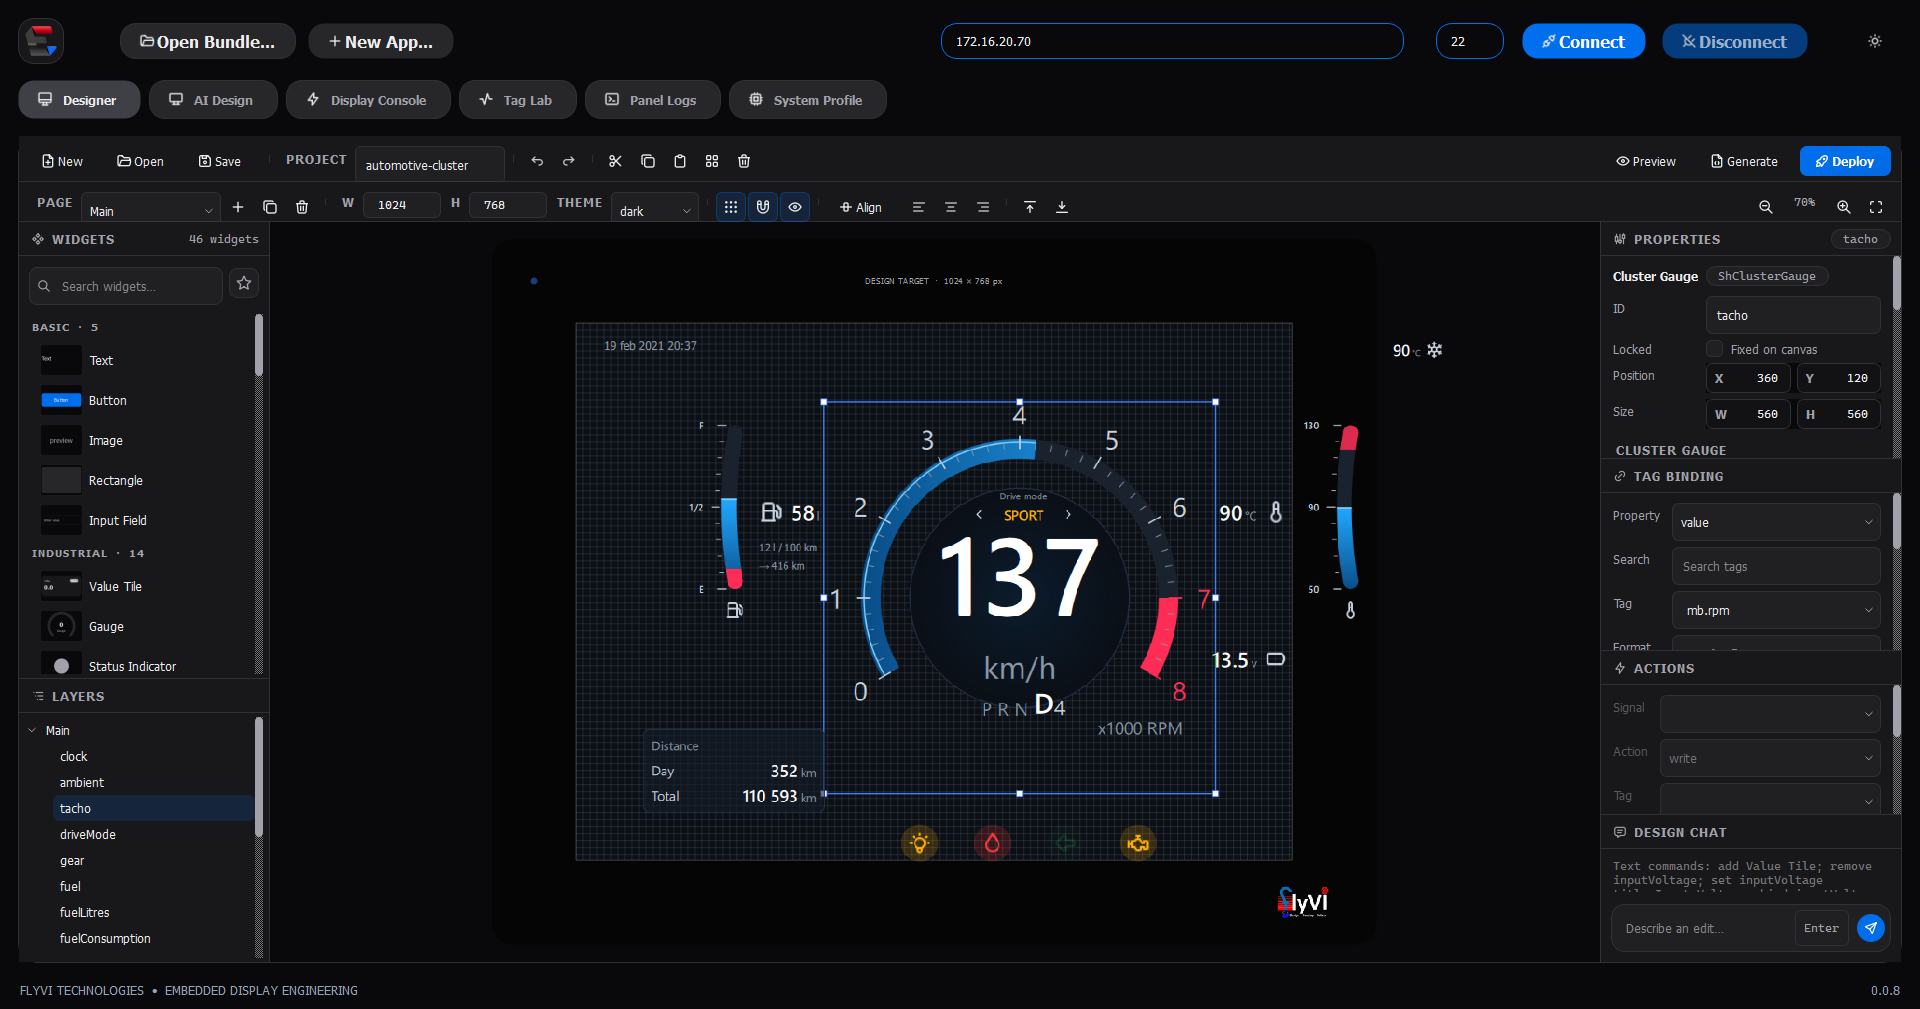
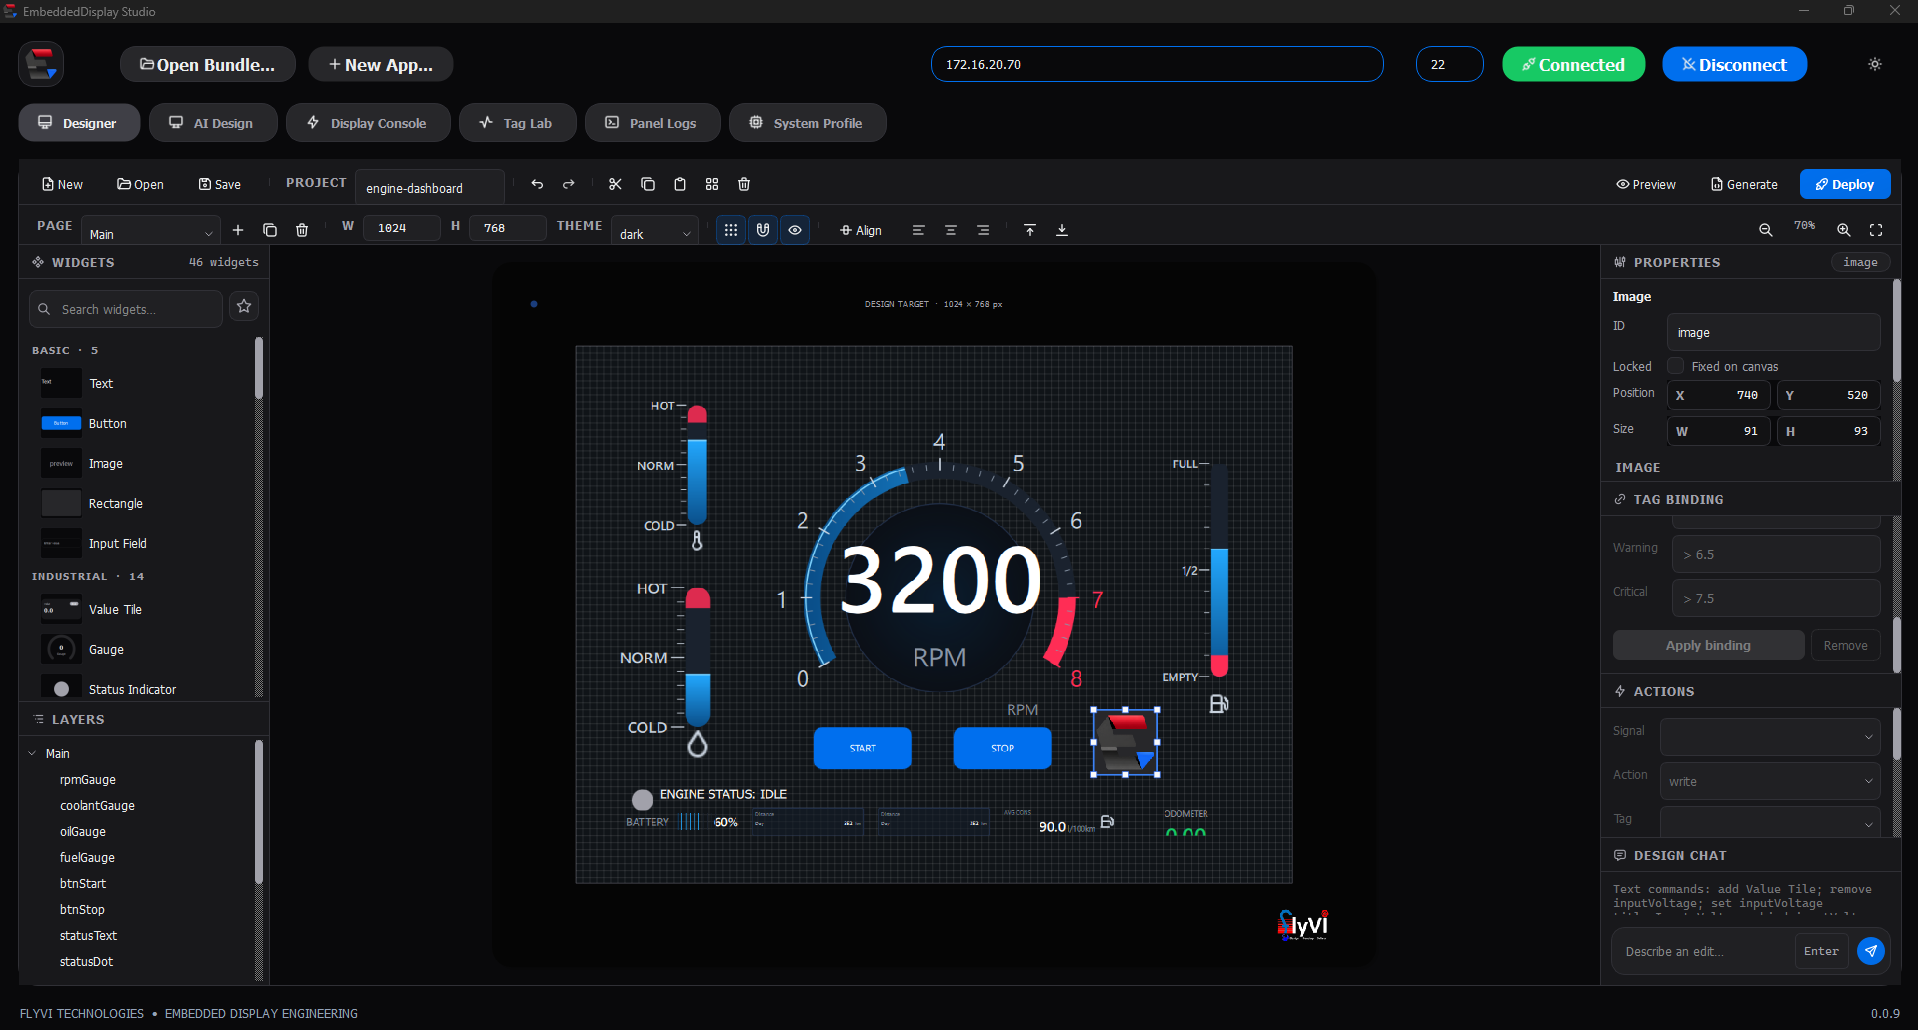
docs: Designer screenshot from the 0.0.9 Studio with the panel connected

diff --git a/README.md b/README.md
@@ -37,14 +37,15 @@ first.</em>
 
 <br /><br />
 
-<img src="docs/assets/screenshot-designer.png" alt="The Designer workspace with the automotive cluster project open: widget library and layer tree, the canvas drawing every widget with its real QML, the cluster gauge selected with its eight resize handles, and the property, binding, actions and chat inspectors" width="900" />
+<img src="docs/assets/screenshot-designer.png" alt="The Designer workspace with the engine-dashboard project open and the Studio connected to the panel: widget library and layer tree, the canvas drawing the cluster with its real QML, the logo image selected with its eight resize handles, and the property, tag-binding, actions and chat inspectors" width="900" />
 
-<em>The automotive cluster preset open in the Studio's own Designer — library
-and layers to the left, the canvas inside a bezel of the real glass with every
-widget drawn by its own QML, the cluster gauge selected with its eight resize
-handles, and the property, tag-binding, actions and chat inspectors to the
-right. The canvas is 1024 × 768 because that is what the panel at the top of
-the window reported.</em>
+<em>The engine dashboard open in the Studio's own Designer, connected to the
+panel at the top of the window — library and layers to the left, the canvas
+inside a bezel of the real glass with every widget drawn by its own QML, the
+logo image selected with its eight resize handles, and the property,
+tag-binding (with its warning and critical thresholds), actions and chat
+inspectors to the right. The canvas is 1024 × 768 because that is what the
+connected panel reported.</em>
 
 </div>
 
